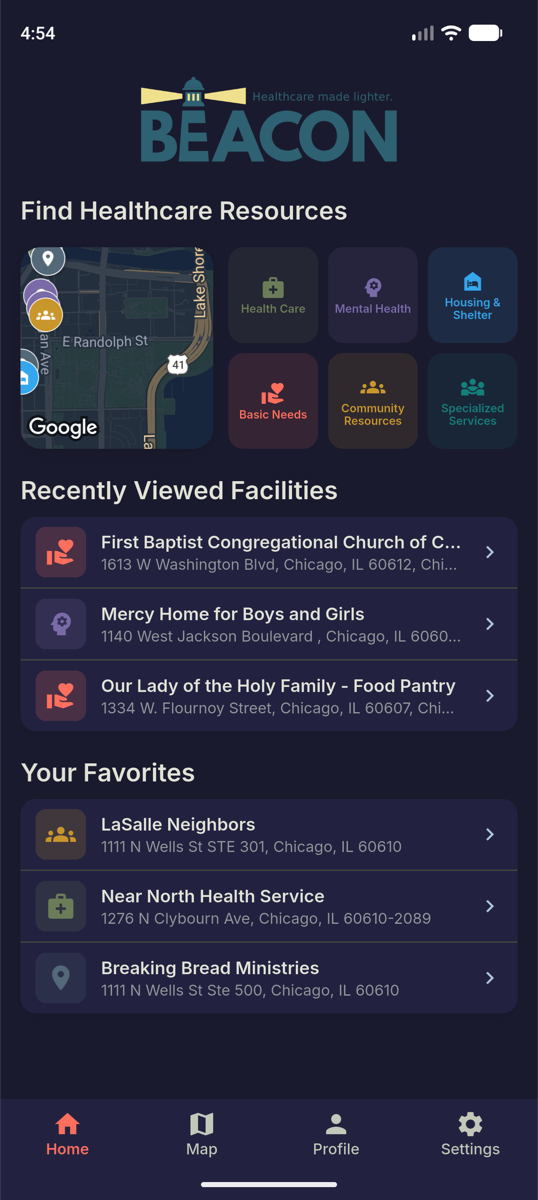
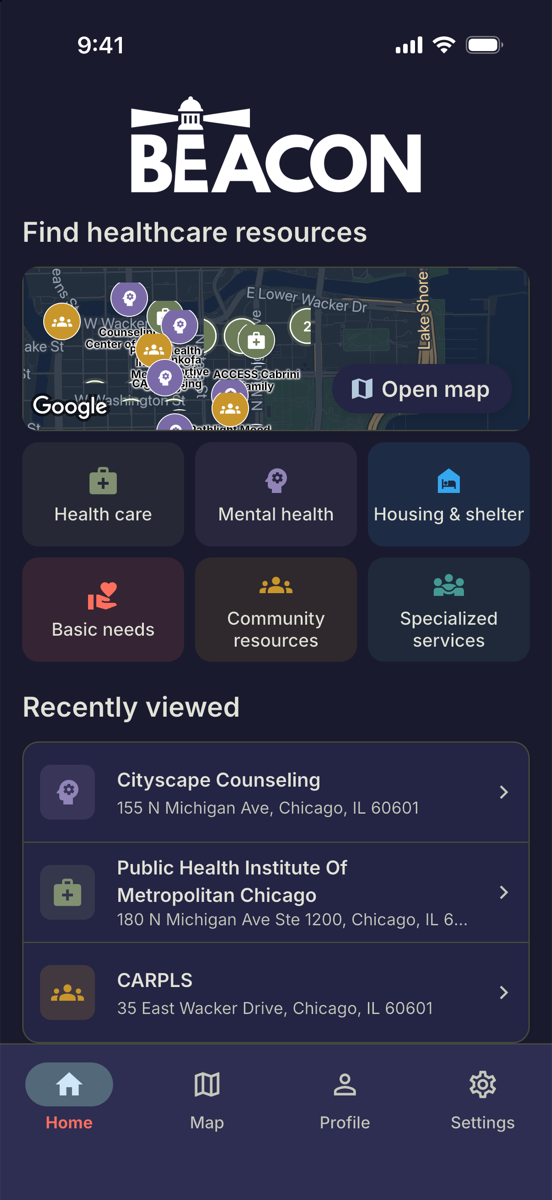
chore(design): retake the Home and Map captures for Claude Design

diff --git a/.design-sync/NOTES.md b/.design-sync/NOTES.md
@@ -69,14 +69,15 @@ iPhone 17e simulator and writes `.design-sync/captures/map_bg_*.jpg`.
 - **Map kit sizes mirror `MarkerUtils`** at 3x (pin circle 34px, clusters
   25/31/36px). `test/features/map/presentation/widgets/marker_icon_factory_test.dart`
   guards the bitmap sizes; if it changes, update `.design-sync/map-kit.css`.
-- **Device captures go stale silently.** `.design-sync/captures/` (Home taken
-  2026-09-28, Map 2026-10-12 at version 1.1.0, on an iPhone 17 Pro simulator
-  and a Pixel 10 Pro emulator) can't be regenerated by the tool — Home and Map
+- **Device captures go stale silently.** `.design-sync/captures/` (Home and Map
+  taken 2026-10-14 at version 1.1.0, on an iPhone 17 Pro simulator) can't be regenerated by the tool — Home and Map
   need Google Maps and Supabase. Re-capture them when those screens change:
   run the app as a guest with the simulator in dark appearance
-  (`xcrun simctl ui <udid> appearance dark`), screenshot the Map tab with the
-  list at its default height and again with a pin selected, and save each
-  552 px wide (`sips -Z 1200`).
+  (`xcrun simctl ui <udid> appearance dark`), screenshot Home in light and
+  dark and the Map tab with the list at its default height and again with a
+  pin selected, and save each 1200 px tall (`sips -Z 1200`). Fix the clock
+  first (`xcrun simctl status_bar <udid> override --time 9:41`), and check
+  Settings: with "Open Map as a list" on, the list opens raised.
 - **Reference renders depend on the machine:** SF Pro from
   `/System/Library/Fonts/SFNS.ttf` and Roboto from the Flutter SDK's
   `material_fonts` cache. Without them the sign-in buttons render in a
